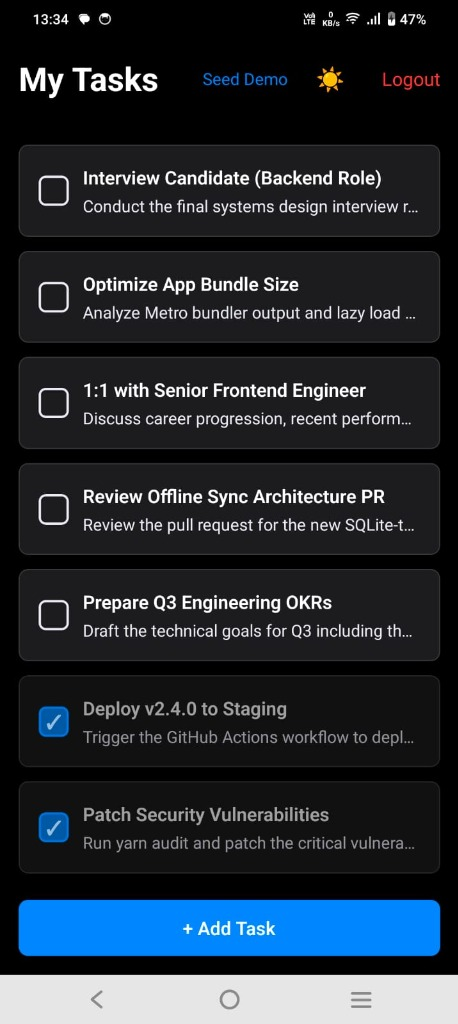
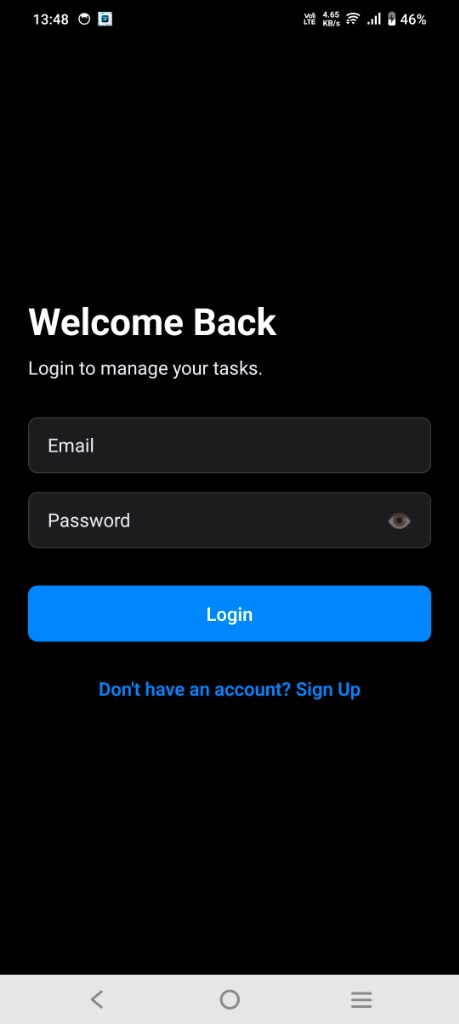
docs: Update final application screenshots for presentation

diff --git a/README.md b/README.md
@@ -6,9 +6,9 @@ A cross-platform Task Management App built with React Native.
 
 <p align="center">
   <img src="./docs/login.jpg" width="200" />
+  <img src="./docs/create-account.jpg" width="200" />
   <img src="./docs/task-list.jpg" width="200" />
   <img src="./docs/edit-task.jpg" width="200" />
-  <img src="./docs/push-notification.jpg" width="200" />
 </p>
 
 ## Architecture Choice
